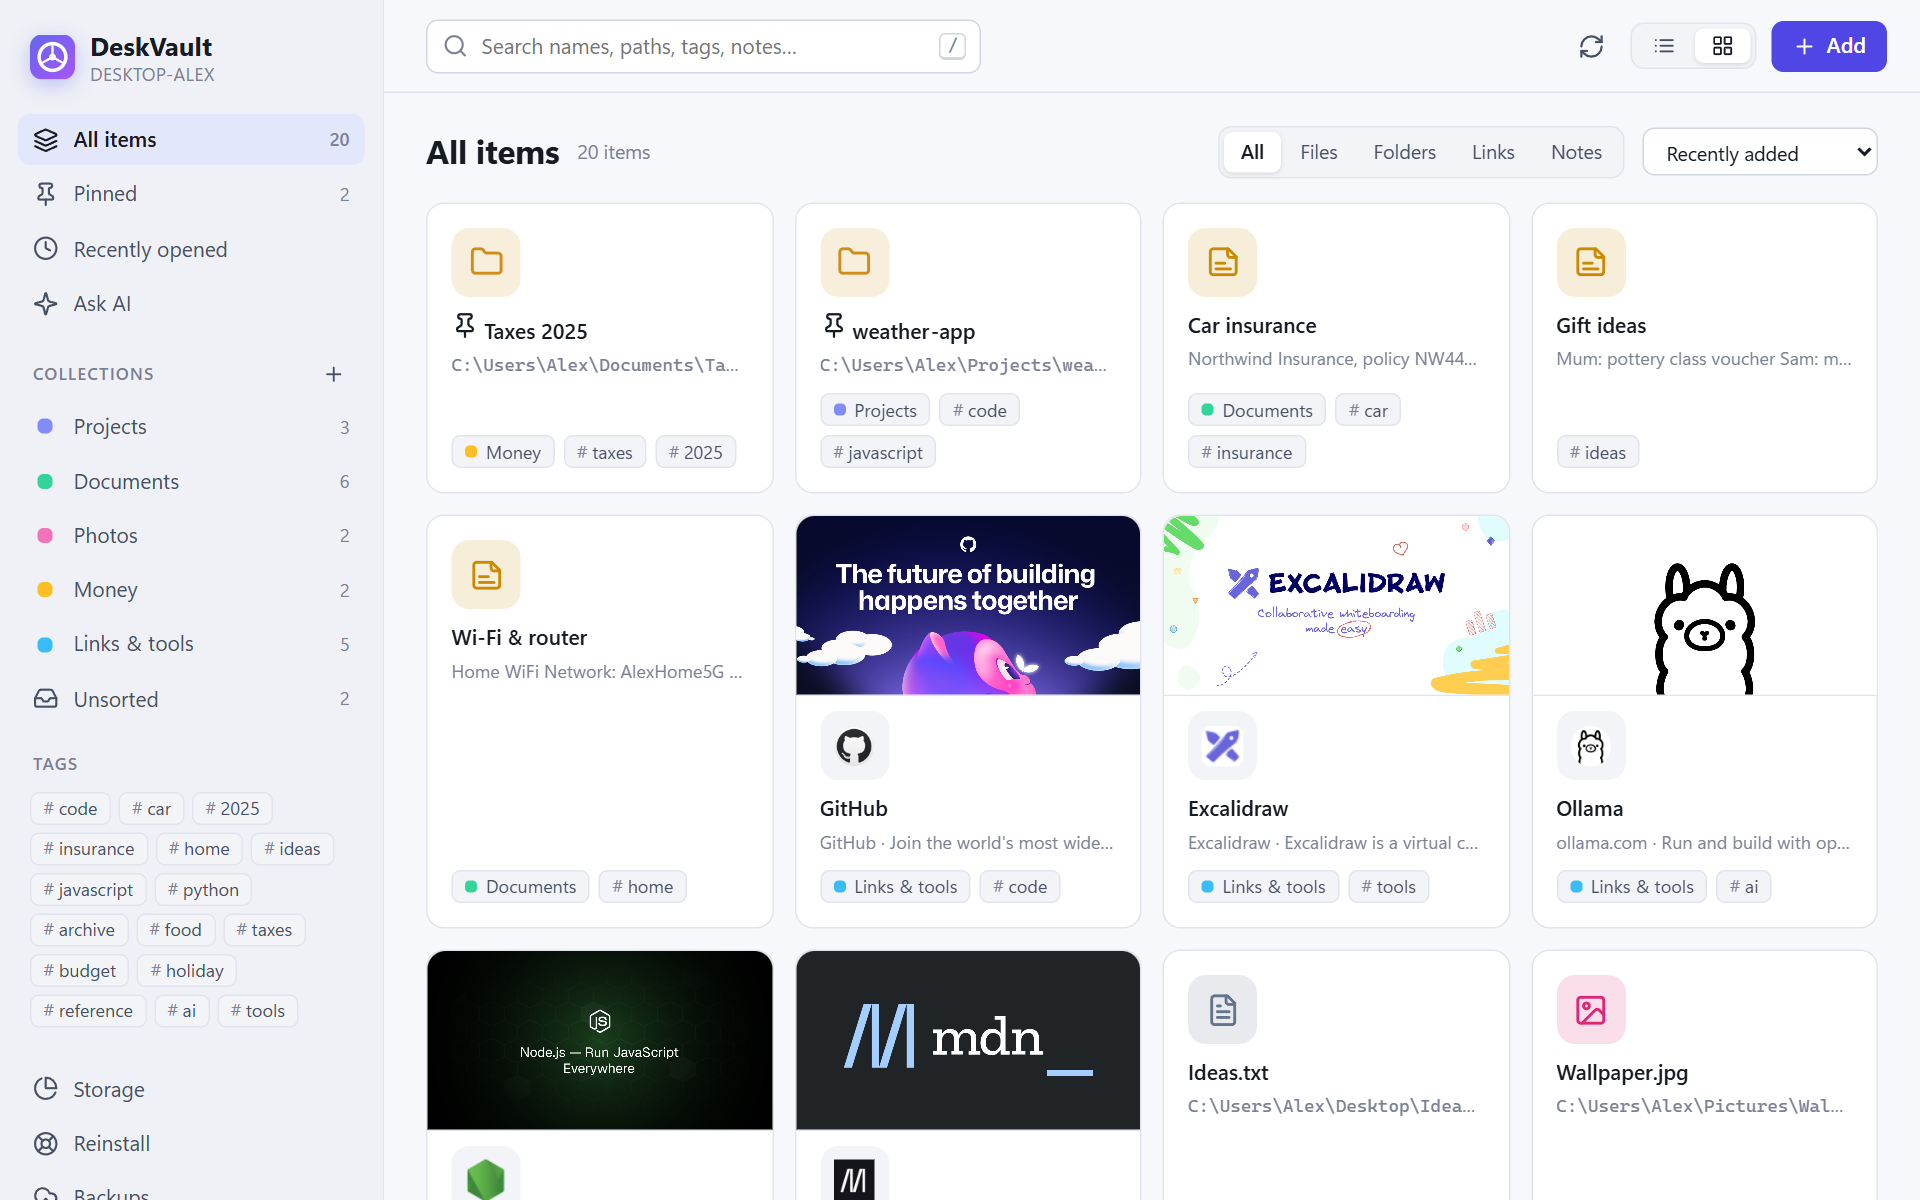
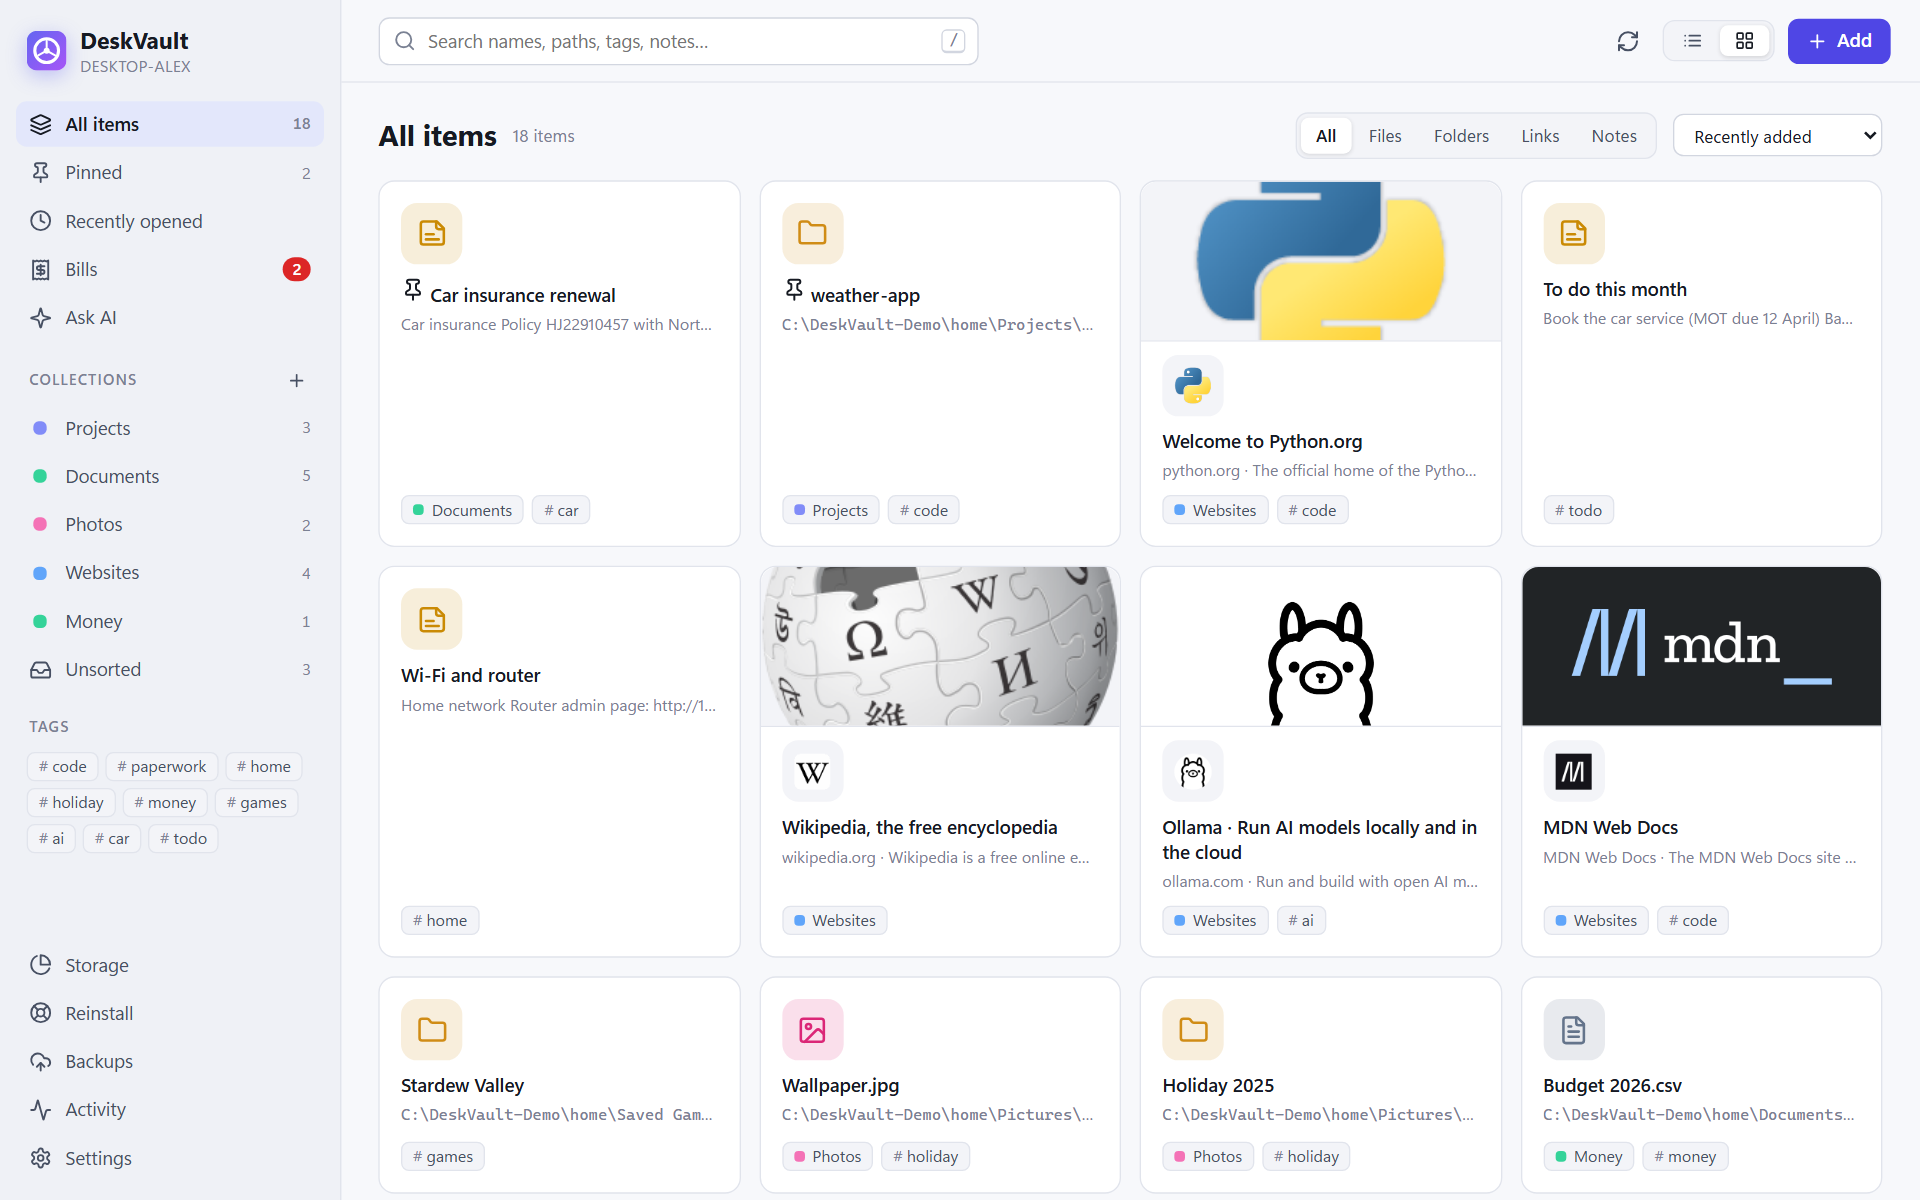
Docs: new screenshots, Bills and Installed apps guides
Refreshed the library, Ask AI and code viewer screenshots and added ones for
Bills, the AI memory panel and Installed apps, all taken from a demo library
on a demo PC. New docs/features/bills.md, an Installed apps section in
storage.md, saved chats and memory in ai.md, and the changelog.

diff --git a/CHANGELOG.md b/CHANGELOG.md
@@ -2,6 +2,32 @@
 
 All notable changes to DeskVault are documented here. The format follows [Keep a Changelog](https://keepachangelog.com/en/1.1.0/) and this project uses [Semantic Versioning](https://semver.org/spec/v2.0.0.html).
 
+## [Unreleased]
+
+### Added
+- **Bills**: a bill tracker with a page of its own in the sidebar. It shows:
+  - a monthly total, with weekly, every-2-weeks, quarterly, every-6-months and yearly bills evened out so they add up correctly;
+  - how much is left to pay this month, what's due in the next 7 days, and what's overdue;
+  - a "Coming up" list and a month calendar.
+- Marking a bill paid moves it to its next due date. A bill due on the 31st stays on the last day of shorter months. You can undo a payment, skip one, or record the real amount for bills that change each time.
+- Auto-pay bills ask you to confirm the payment went through instead of being shown as late.
+- Charts of spending by category and of what you paid in each of the last 6 months, plus a payment history and a CSV export (protected against spreadsheet formula injection).
+- Privacy: you can lock bills behind Windows Hello (they're hidden from the browser and the activity log until you unlock) and blur amounts when sharing your screen. DeskVault only stores the last 4 digits of an account or card, and payment links are limited to http(s) with no logins in them.
+- Optional Windows notifications before bills are due, and a count of bills that need you on the sidebar.
+- Bills are included in backups and in library import.
+- **Ask AI: saved chats.** Every conversation is kept (in `data\ai-chats.json`) and listed beside the chat, grouped by Pinned / Today / Yesterday / This week. You can search, reopen, rename, pin or delete chats, and follow-ups keep the whole conversation in mind. New chats get a short title from the model.
+- **Ask AI: memory.** Facts the AI keeps in mind for every answer (in `data\ai-memory.json`). Start a message with "remember that…" or "forget…", click **Remember…** under an answer to pick facts from it, or add and edit them on the **Memory** panel. Memory is included in backups and library import.
+- **Ask AI: project knowledge.** Folders are walked deeper (4 levels, up to 80 notes each) with READMEs, hand-off notes and `docs/` read first and in more detail. Every project folder (git repo, `package.json`, `.sln`/`.csproj`, Python or Rust/Go project) gets a "project overview" source with its location, stack, git remote, npm scripts, README intro and layout. Git remote URLs are stored without any login in them.
+- **Ask AI: better answers.** Follow-ups are rewritten into a standalone search ("how do I deploy it?" becomes "deploy my-website"), shown above the answer. Answers use 8 sources instead of 6, sources show which project and collection they came from, and the model knows today's date.
+- **Storage > Installed apps.** A second view on the Storage page lists every desktop program and Microsoft Store app with its icon, publisher, version, size, install date and when you last opened it (from Windows' own launch history, including Start-menu shortcuts). Filter by "not opened in 6 months", "no launch history", unrated or leftover entries (listed as installed but their files are gone); sort by size, name, last opened, install date or rating.
+- Rate apps 1-5 stars and keep a note on each, for your own clean-up decisions. Ratings stay on this PC.
+- Uninstall one app or tick several and uninstall them together. They run one at a time with each app's **own uninstaller** (Windows may ask for permission), and DeskVault waits until each is really gone, also catching uninstallers that hand off to a temporary copy, before starting the next. Skip the current one or cancel the rest at any time. Uninstall commands are only ever read from the Windows registry on the server, never sent from the browser.
+- An app's details show its location (with Open), website and help links, the exact uninstall command, and a **Measure** button for apps that don't report their size.
+
+### Changed
+- The native helper (`bin\VaultWin.exe`) and the launcher (`bin\Vault.exe`) are now rebuilt separately, so updating the helper no longer fails while DeskVault is running from the launcher.
+- Saved chats show "Locked item" for any source that has since been locked. The answer text itself is kept, so delete a chat if it quotes something you have since locked.
+
 ## [1.0.0] &mdash; 2026-10-24
 
 First public release.

diff --git a/README.md b/README.md
@@ -50,12 +50,18 @@ move or reorganise. One click backs the whole lot up to a USB drive.
   everything in one click afterwards. [More &rarr;](docs/features/reinstall.md)
 - **Storage manager.** Scan drives or folders to find big files you haven't
   opened in years, duplicates and old `node_modules`; send them to the
-  Recycle Bin or move them to another drive.
+  Recycle Bin or move them to another drive. [More &rarr;](docs/features/storage.md)
+- **Installed apps.** Every program and Store app with its icon, size and when
+  you last opened it. Rate them, keep notes, and uninstall one or many at once
+  with their own uninstallers. [More &rarr;](docs/features/storage.md#installed-apps)
+- **Bills.** Upcoming due dates, a monthly total that evens out yearly and
+  quarterly bills, what's late, and a calendar. [More &rarr;](docs/features/bills.md)
 - **Windows Hello lock.** Lock items or whole collections. They stay hidden
   until you unlock with your PIN, fingerprint or face.
-- **Local AI (optional).** Ask questions about your own notes and files;
-  answers cite numbered sources you can click. Runs on **your** GPU through
-  [Ollama](https://ollama.com). [More &rarr;](docs/features/ai.md)
+- **Local AI (optional).** Ask questions about your own notes, files and
+  projects; answers cite numbered sources you can click. Chats are saved,
+  follow-ups keep their context, and a **memory** keeps facts you teach it.
+  Runs on **your** GPU through [Ollama](https://ollama.com). [More &rarr;](docs/features/ai.md)
 
 > [!NOTE]
 > **Nothing leaves your PC.** DeskVault binds to `127.0.0.1` only. The only
@@ -75,6 +81,11 @@ move or reorganise. One click backs the whole lot up to a USB drive.
     <td align="center"><b>Backups to any drive</b><br><br><img src="docs/images/backups-dark.png" alt="Backups page showing a dated snapshot folder on the backup drive" width="320"></td>
     <td align="center"><b>Reinstall-ready</b><br><br><img src="docs/images/reinstall-dark.png" alt="Reinstall page listing easy-to-forget folders a Windows reinstall would wipe" width="320"></td>
     <td align="center"><b>Storage: duplicates & stale files</b><br><br><img src="docs/images/storage-duplicates-dark.png" alt="Storage page showing duplicate files and gigabytes recoverable" width="320"></td>
+  </tr>
+  <tr>
+    <td align="center"><b>Installed apps: uninstall several at once</b><br><br><img src="docs/images/installed-apps-uninstall-dark.png" alt="Installed apps filtered to apps not opened in 6 months, with three selected and an Uninstall 3 apps button" width="320"></td>
+    <td align="center"><b>Bills and due dates</b><br><br><img src="docs/images/bills-dark.png" alt="Bills page with a late bill, monthly total, the next 7 days and a month calendar" width="320"></td>
+    <td align="center"><b>AI memory and saved chats</b><br><br><img src="docs/images/ask-ai-memory-dark.png" alt="The Memory panel listing facts the AI keeps in mind for every answer" width="320"></td>
   </tr>
 </table>
 

diff --git a/docs/features/storage.md b/docs/features/storage.md
@@ -29,3 +29,31 @@ Backing a file up never bumps its atime: DeskVault puts it back after copying, s
 ## Add to DeskVault
 
 If a scan surfaces a folder you'd forgotten about and want to keep track of, select it and click **Add to Vault** &mdash; it joins your library like any other item.
+
+## Installed apps
+
+Switch the Storage page to **Installed apps** (top right) to see every desktop program and Microsoft Store app on the PC.
+
+![Installed apps list with icons, sizes, install dates and when each was last opened](../images/installed-apps-dark.png)
+
+- **What's listed:** programs from the Windows "Apps & features" list (all users and just you, 64- and 32-bit) and Store apps that have a Start menu entry. Updates, system components and frameworks are left out.
+- **Last opened** comes from Windows' own record of programs started from the Start menu, taskbar or Explorer. Apps that only start by themselves (services, tray helpers, games launched from another launcher) show *No history*.
+- **Size** is what each app reports to Windows. If it doesn't, open its details and click **Measure** to add up its install folder.
+- **Leftover entries** are apps Windows still lists whose files are gone. Their uninstaller may fail; the entry itself is harmless.
+- **Your rating:** give apps 1 to 5 stars and a note (why you keep it, what it's for). Filter by *Rated 1&ndash;2 stars* when it's time to clear out. Ratings stay on this PC.
+
+![App details with location, links, the uninstall command, and your rating and note](../images/installed-apps-details-dark.png)
+
+### Uninstalling one or many
+
+Tick one or more apps (or open an app's details) and click **Uninstall**. DeskVault runs each app's **own uninstaller**, the same one Windows Settings uses, **one at a time**, because Windows installers can't run side by side.
+
+- Windows may ask for permission for each app, and the uninstaller's window can open behind your browser. Check the taskbar.
+- DeskVault waits until the app is really gone from Windows' list before starting the next, including uninstallers that hand off to a temporary copy of themselves. Each one ends as *Uninstalled*, *Still installed* (you closed the uninstaller without finishing), *Skipped* or *Cancelled*.
+- **Skip this one** moves on without waiting; **Cancel the rest** stops after the current app.
+- Settings and saved files that an app keeps in your user folder may stay behind, the same as when uninstalling from Windows.
+
+![Three apps not opened in 6 months selected, ready to uninstall together](../images/installed-apps-uninstall-dark.png)
+
+> [!NOTE]
+> The uninstall command is always read from the Windows registry by DeskVault itself; the browser only sends which apps you picked.

diff --git a/docs/features/ai.md b/docs/features/ai.md
@@ -21,6 +21,28 @@ Ask questions about your own notes, saved sites and the text/Markdown/code files
 
 **Not indexed:** anything inside a locked item or locked collection. The ignore list respects your backup excludes (`node_modules`, `.venv`, &hellip;). The index lives in `data\ai-index.json` and updates in the background when things change (turn off in Settings).
 
+- **Project overviews.** Each project folder (a git repo, or a folder with `package.json`, `.sln`/`.csproj`, `pyproject.toml`/`requirements.txt`, `Cargo.toml` or `go.mod`), up to two levels inside a tracked folder, gets a generated overview: location, stack, git remote and branch, npm scripts, the start of its README and its top-level layout. These answer "where is…", "how do I run…" and "which projects have no remote?". READMEs, hand-off notes and `docs/` files are read first and in more detail than other notes.
+
+## Saved chats
+
+![Saved chats beside a conversation, with a rewritten follow-up search shown above the answer](../images/ask-ai-dark.png)
+
+Every conversation is saved in `data\ai-chats.json` and listed next to the chat. Search, reopen, rename, pin or delete them from there. Follow-up questions keep the conversation in mind: DeskVault rewrites them into a standalone search first and shows that search above the answer.
+
+If you lock an item later, saved chats show its sources as "Locked item", but the answer text stays. Delete a chat if it quotes something you have since locked.
+
+## Memory
+
+![The Memory panel](../images/ask-ai-memory-dark.png)
+
+Memory is a short list of facts the AI keeps in mind for every answer, such as "My website's deploy script is in Projects\site\deploy.ps1" or "I'm on Windows 11 with an AMD GPU". It's stored in `data\ai-memory.json`.
+
+- Start a message with **remember that…** to add a fact, or **forget…** to remove the closest match.
+- Click **Remember…** under an answer and the AI suggests facts from it. Tick and edit the ones to keep.
+- Open **Memory** to add, edit or remove facts.
+
+Memory is copied into backups and restored by library import. It isn't tied to locked items, so don't put anything there you'd want hidden.
+
 ## Free GPU memory
 
 Click **Free GPU memory** on the Ask AI page before gaming &mdash; this calls Ollama's unload. Ollama also unloads by itself after 2 idle minutes (`OLLAMA_KEEP_ALIVE=2m`, set as a user environment variable by DeskVault).

diff --git a/docs/features/bills.md b/docs/features/bills.md
@@ -1,0 +1,27 @@
+# Bills
+
+A page for what you pay regularly: rent, utilities, subscriptions, insurance. Open **Bills** in the sidebar.
+
+![Bills page with a late bill, monthly total, the next 7 days and a month calendar](../images/bills-dark.png)
+
+## What it shows
+
+- **Monthly total.** Weekly, every-2-weeks, quarterly, every-6-months and yearly bills are evened out so the total is what you really spend in an average month, plus the yearly figure.
+- **Left to pay this month**, what's due in the **next 7 days**, and anything **overdue**.
+- **Coming up:** each bill's next due date for the next 45 days, grouped into late, next 7 days and after that.
+- A **month calendar**, charts of where the money goes by category, and what you paid in each of the last 6 months.
+
+## Paying, skipping, undoing
+
+- **Paid** records the payment and moves the bill to its next due date. A bill due on the 31st stays on the last day of shorter months.
+- For bills that change each time (electricity, phone), mark them **variable** and enter the real amount when you pay.
+- **Auto-pay** bills ask you to confirm the payment went through instead of showing as late.
+- You can **skip** a payment or **undo** the last one. **Export** gives you a CSV of payments (protected against spreadsheet formula injection).
+
+## Privacy
+
+- Lock bills behind **Windows Hello** (gear icon on the Bills page). Names, amounts and dates stay out of the browser and the activity log until you unlock.
+- The **eye** icon blurs amounts while you share your screen.
+- DeskVault only stores the last 4 digits of an account or card number, and payment links must be plain http(s) addresses with no logins in them.
+
+Bills are included in backups and in library import. Optional Windows notifications remind you before bills are due.
